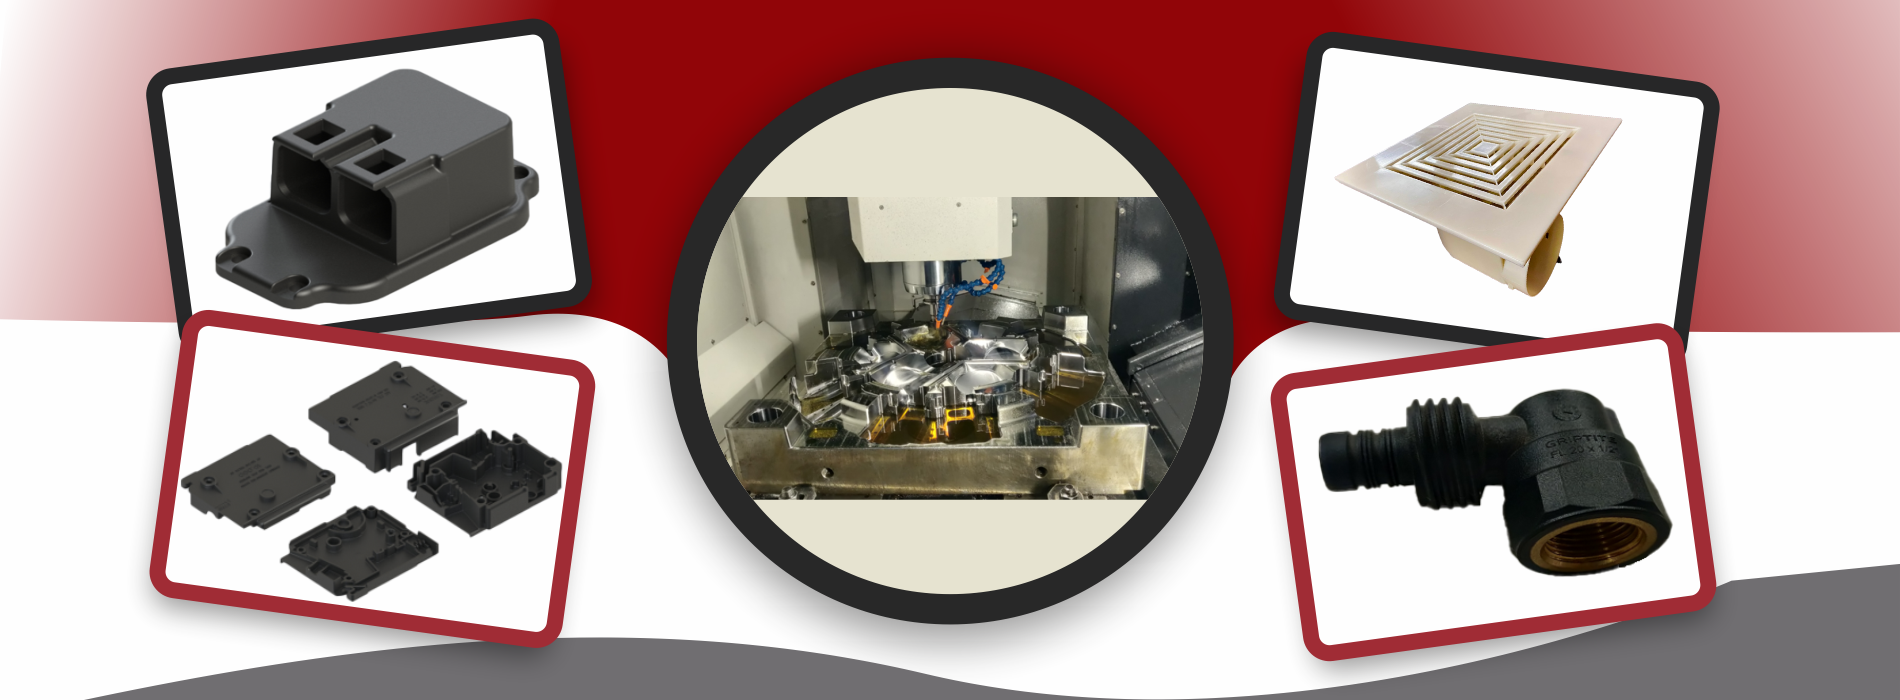
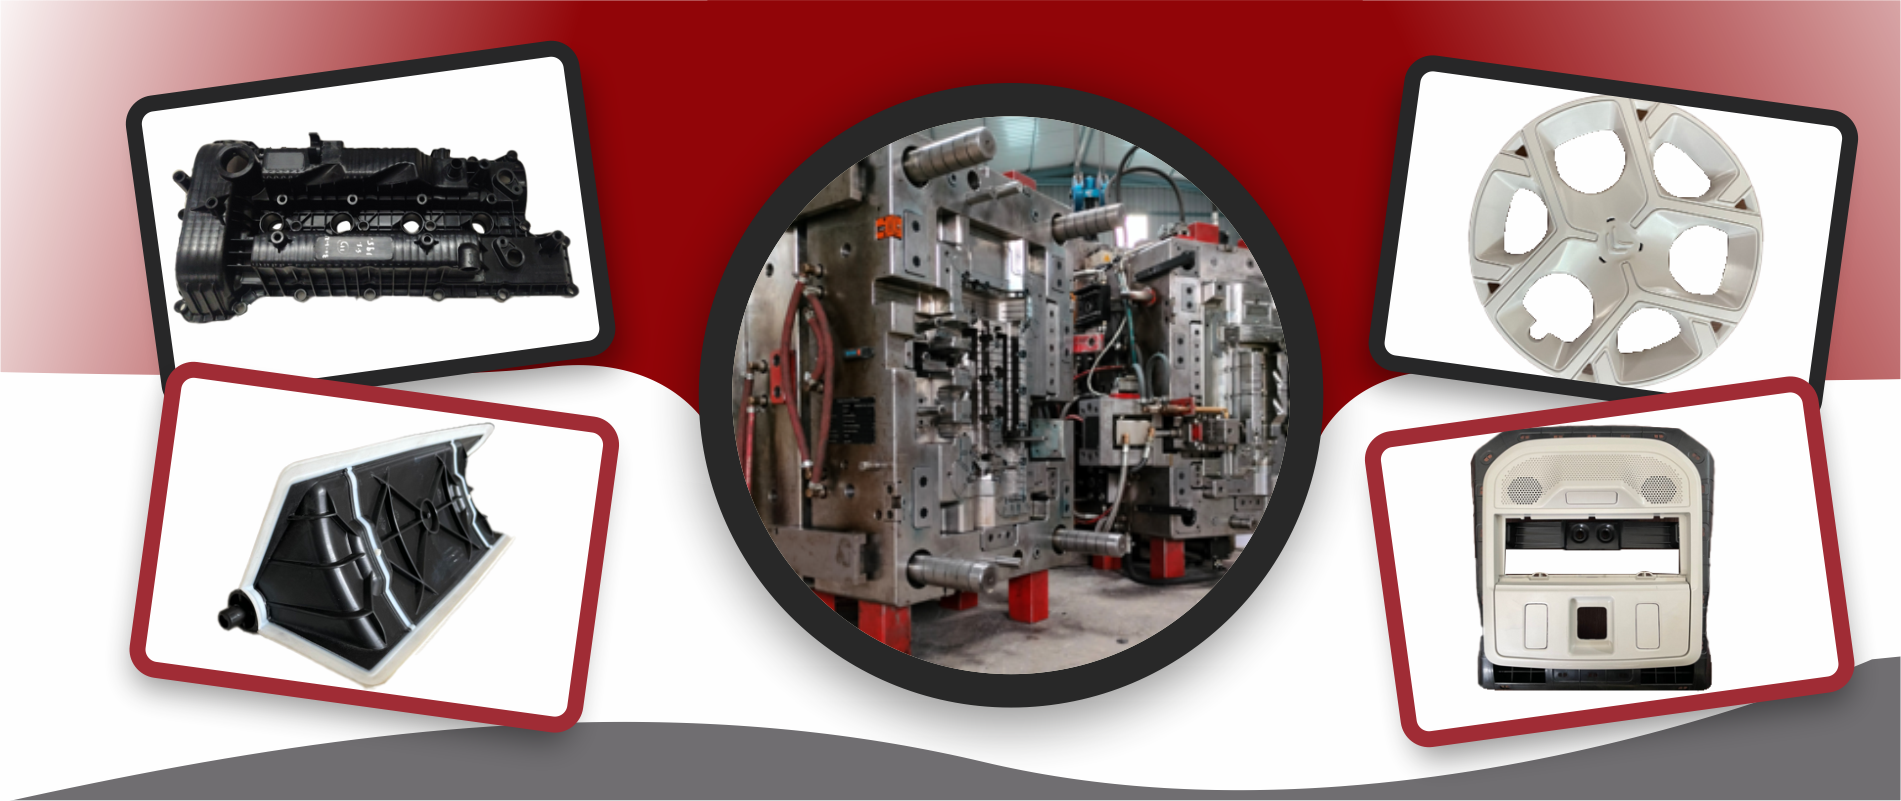
first commit

diff --git a/index.html b/index.html
@@ -161,6 +161,9 @@
                         <div class="pull-right upper-right clearfix">
 
                             <!--Info Box-->
+                            <div class="slogan upper-column info-box">
+                                <div>Empowering Quality ! </div>
+                            </div>
                             <div class="upper-column info-box">
                                 <div class="icon-box"><span class="flaticon-telephone"></span></div>
                                 <ul>
@@ -175,7 +178,7 @@
                                 <div class="icon-box"><span class="flaticon-placeholder"></span></div>
                                 <ul>
                                     <li><strong>Office Adress</strong></li>
-                                    <li> PUNE, MAHARASHTRA , INDIA
+                                    <li> Pune, Maharashtra , India
                                     </li>
                                 </ul>
                             </div>
@@ -186,7 +189,7 @@
                                 <ul>
                                     <li><strong>Mail Us</strong></li>
                                     <li><a href="mailto: shahid@klassmold.com">shahid@klassmold.com
-                                        </a> / <a href="mailto: klassmold@gmail.com">klassmold@gmail.com
+                                        </a> <br> <a href="mailto: klassmold@gmail.com">klassmold@gmail.com
                                         </a>
                                     </li>
                                 </ul>
@@ -203,6 +206,7 @@
             <div class="header-lower">
                 <div class="auto-container">
                     <div class="inner-container clearfix">
+                        <div class="klassmold"></div>
 
                         <div class="nav-outer">
                             <div class="logo pull-left">
@@ -244,6 +248,8 @@
                                             </ul>
                                         </li>
                                         <li><a href="#">Machinary</a>
+                                        </li>
+                                        <li><a href="#">Careers</a>
                                         </li>
                                         <li><a href="contact.html">Contact Us</a></li>
                                     </ul>
@@ -299,16 +305,16 @@
         <!-- Main Slider Section -->
         <section class="main-slider">
             <div class="main-slider-carousel owl-theme owl-carousel">
+    
                 <!-- Slide 01 -->
                 <div class="slide">
                     <div class="content-column">
                         <div class="inner-column">
                             <img src="images/main-slider/b1.png">
+                            
                         </div>
                     </div>
                 </div>
-                <!-- End Slide 01 -->
-                <!-- Slide 01 -->
                 <div class="slide">
                     <div class="content-column">
                         <div class="inner-column">
@@ -322,6 +328,13 @@
                         <div class="inner-column">
                             <img src="images/main-slider/b3.png">
                             
+                        </div>
+                    </div>
+                </div>
+                <div class="slide">
+                    <div class="content-column">
+                        <div class="inner-column">
+                            <img src="images/main-slider/b4.png">
                         </div>
                     </div>
                 </div>
@@ -344,7 +357,7 @@
                     <div class="image-column col-lg-6 col-md-12 col-sm-12">
                         <div class="inner-column">
                             <div class="image wow fadeInUp" data-wow-delay="0ms" data-wow-duration="1500ms">
-                                <img src="images/about-bg.jpg" alt="Klass Mold" />
+                                <img src="images/about-bg-removebg-preview.png" alt="Klass Mold" />
                             </div>
                             <div class="big-text">about</div>
                         </div>
@@ -517,7 +530,7 @@
                             <div class="color-layer"></div>
                             <div class="image-box">
                                 <div class="image">
-                                    <a href=""><img src="images/Products/compression-molds.jpg" alt="" /></a>
+                                    <a href=""><img src="images/Products/compression-mold.png" alt="" /></a>
                                 </div>
                             </div>
                             <h5><a href="">Compression Mold</a></h5>
@@ -533,7 +546,7 @@
                             <div class="color-layer"></div>
                             <div class="image-box">
                                 <div class="image">
-                                    <a href=""><img src="images/Products/mold-one.jpg" alt="" /></a>
+                                    <a href=""><img src="images/Products/precision-injection-mold.png" alt="" /></a>
                                 </div>
                             </div>
                             <h5><a href="">Precision Molds</a></h5>
@@ -551,7 +564,7 @@
                             <div class="color-layer"></div>
                             <div class="image-box">
                                 <div class="image">
-                                    <a href=""><img src="images\Products\automative parts.png" alt="" /></a>
+                                    <a href=""><img src="images/Products/automotive-parts.png" alt="" /></a>
                                 </div>
                             </div>
                             <h5><a href="">Automotive Parts</a></h5>
@@ -569,7 +582,7 @@
                             <div class="color-layer"></div>
                             <div class="image-box">
                                 <div class="image">
-                                    <a href=""><img src="images\Products\Electrical parts.png" alt="" /></a>
+                                    <a href=""><img src="images/Products/Electrical parts.jpg" alt="" /></a>
                                 </div>
                             </div>
                             <h5><a href="">Electrical Parts</a></h5>
@@ -901,7 +914,7 @@
                                         PCNTDA , BHOSARI
                                         PUNE,  411026
                                     </li>
-                                    <li><span class="icon fa fa-location-dot"></span> Unit 2 - <br>PLOT NO 110 , SECTOR 7
+                                    <li><span class="icon fa fa-location-dot"></span> Unit 2 - <br>PLOT NO  029  , SECTOR 7
                                         PCNTDA , BHOSARI
                                         PUNE,  411026
                                     </li>

diff --git a/css/style.css b/css/style.css
@@ -202,6 +202,7 @@
 .main-header .header-upper .upper-right{
 	position:relative;
 	padding-top:var(--padding-top-15);
+	padding-bottom: 25px;
 }
 
 .main-header .info-box{
@@ -212,7 +213,7 @@
 	color:var(--color-five);
 	font-size:var(--font-15);
 	padding:0px 0px 10px 50px;
-	margin-left:var(--margin-left-50);
+	margin-left:var(--margin-left-35);
 }
 
 .main-header .info-box .icon-box{
@@ -3247,7 +3248,6 @@ color: #666666;
 .project-section .tabs-content .image{
 	position:relative;
 	margin-left:-180px;
-	padding-top:var(--padding-top-60);
 }
 
 .project-section .prod-tabs .tabs-content .tab{
@@ -4154,6 +4154,7 @@ color: #666666;
 	line-height:60px;
 	font-size:var(--font-40);
 	color:var(--white-color);
+	font-style: italic;
 	margin-top:var(--margin-top-30);
 	margin-bottom:var(--margin-bottom-40);
 	font-family: var(--font-family-Roboto);
@@ -6862,7 +6863,7 @@ color: #666666;
 .welcome-section{
 	position:relative;
 	overflow:hidden;
-	padding: 100px 0px 80px;
+	padding: 70px 0px;
 }
 
 .welcome-section .pattern-layer{
@@ -6894,16 +6895,16 @@ color: #666666;
 
 .welcome-section .image-column .image{
 	position:relative;
-	width:570px;
-	height:560px;
+	/* width:570px;
+	height:560px; */
 	z-index:1;
-	overflow:hidden;
+	/* overflow:hidden; */
 	/* border-radius:50%; */
-	box-shadow: rgba(50, 50, 93, 0.25) 0px 13px 27px -5px, rgba(0, 0, 0, 0.3) 0px 8px 16px -8px;
+	/* box-shadow: rgba(50, 50, 93, 0.25) 0px 13px 27px -5px, rgba(0, 0, 0, 0.3) 0px 8px 16px -8px; */
 	/* border:5px solid var(--color-fourtytwo); */
 }
 .welcome-section .image-column .image img {
-    box-shadow: rgba(50, 50, 93, 0.25) 0px 13px 27px -5px, rgba(0, 0, 0, 0.3) 0px 8px 16px -8px;
+	box-shadow: rgba(0, 0, 0, 0.35) 0px 5px 15px;
 	border-radius: 10px;
 }
 
@@ -11982,4 +11983,30 @@ color: #666666;
 
 .sec-title-three .title {
 margin-bottom: 0px;
+}
+.slogan {
+	font-size: 25px;
+	margin: 10px !important;
+	padding-left: 0px !important;
+	padding-top: 20px !important;
+}
+.slogan div {
+	font-size: 20px;
+	font-weight: 700;
+	font-style: italic;
+	color: #fff;
+	background-size: auto auto;
+	background-size: 200% auto;
+	/* background: -webkit-linear-gradient(rgb(124, 20, 20), #333); */
+	background: linear-gradient(to right,rgb(124, 20, 20), #333);
+	-webkit-background-clip: text;
+	-webkit-text-fill-color: transparent;
+	animation: textclip 1.5s linear infinite;
+	display: inline-block;
+}
+ 
+ @keyframes textclip {
+	to {
+		background-position: 200% center;
+	}
 }
